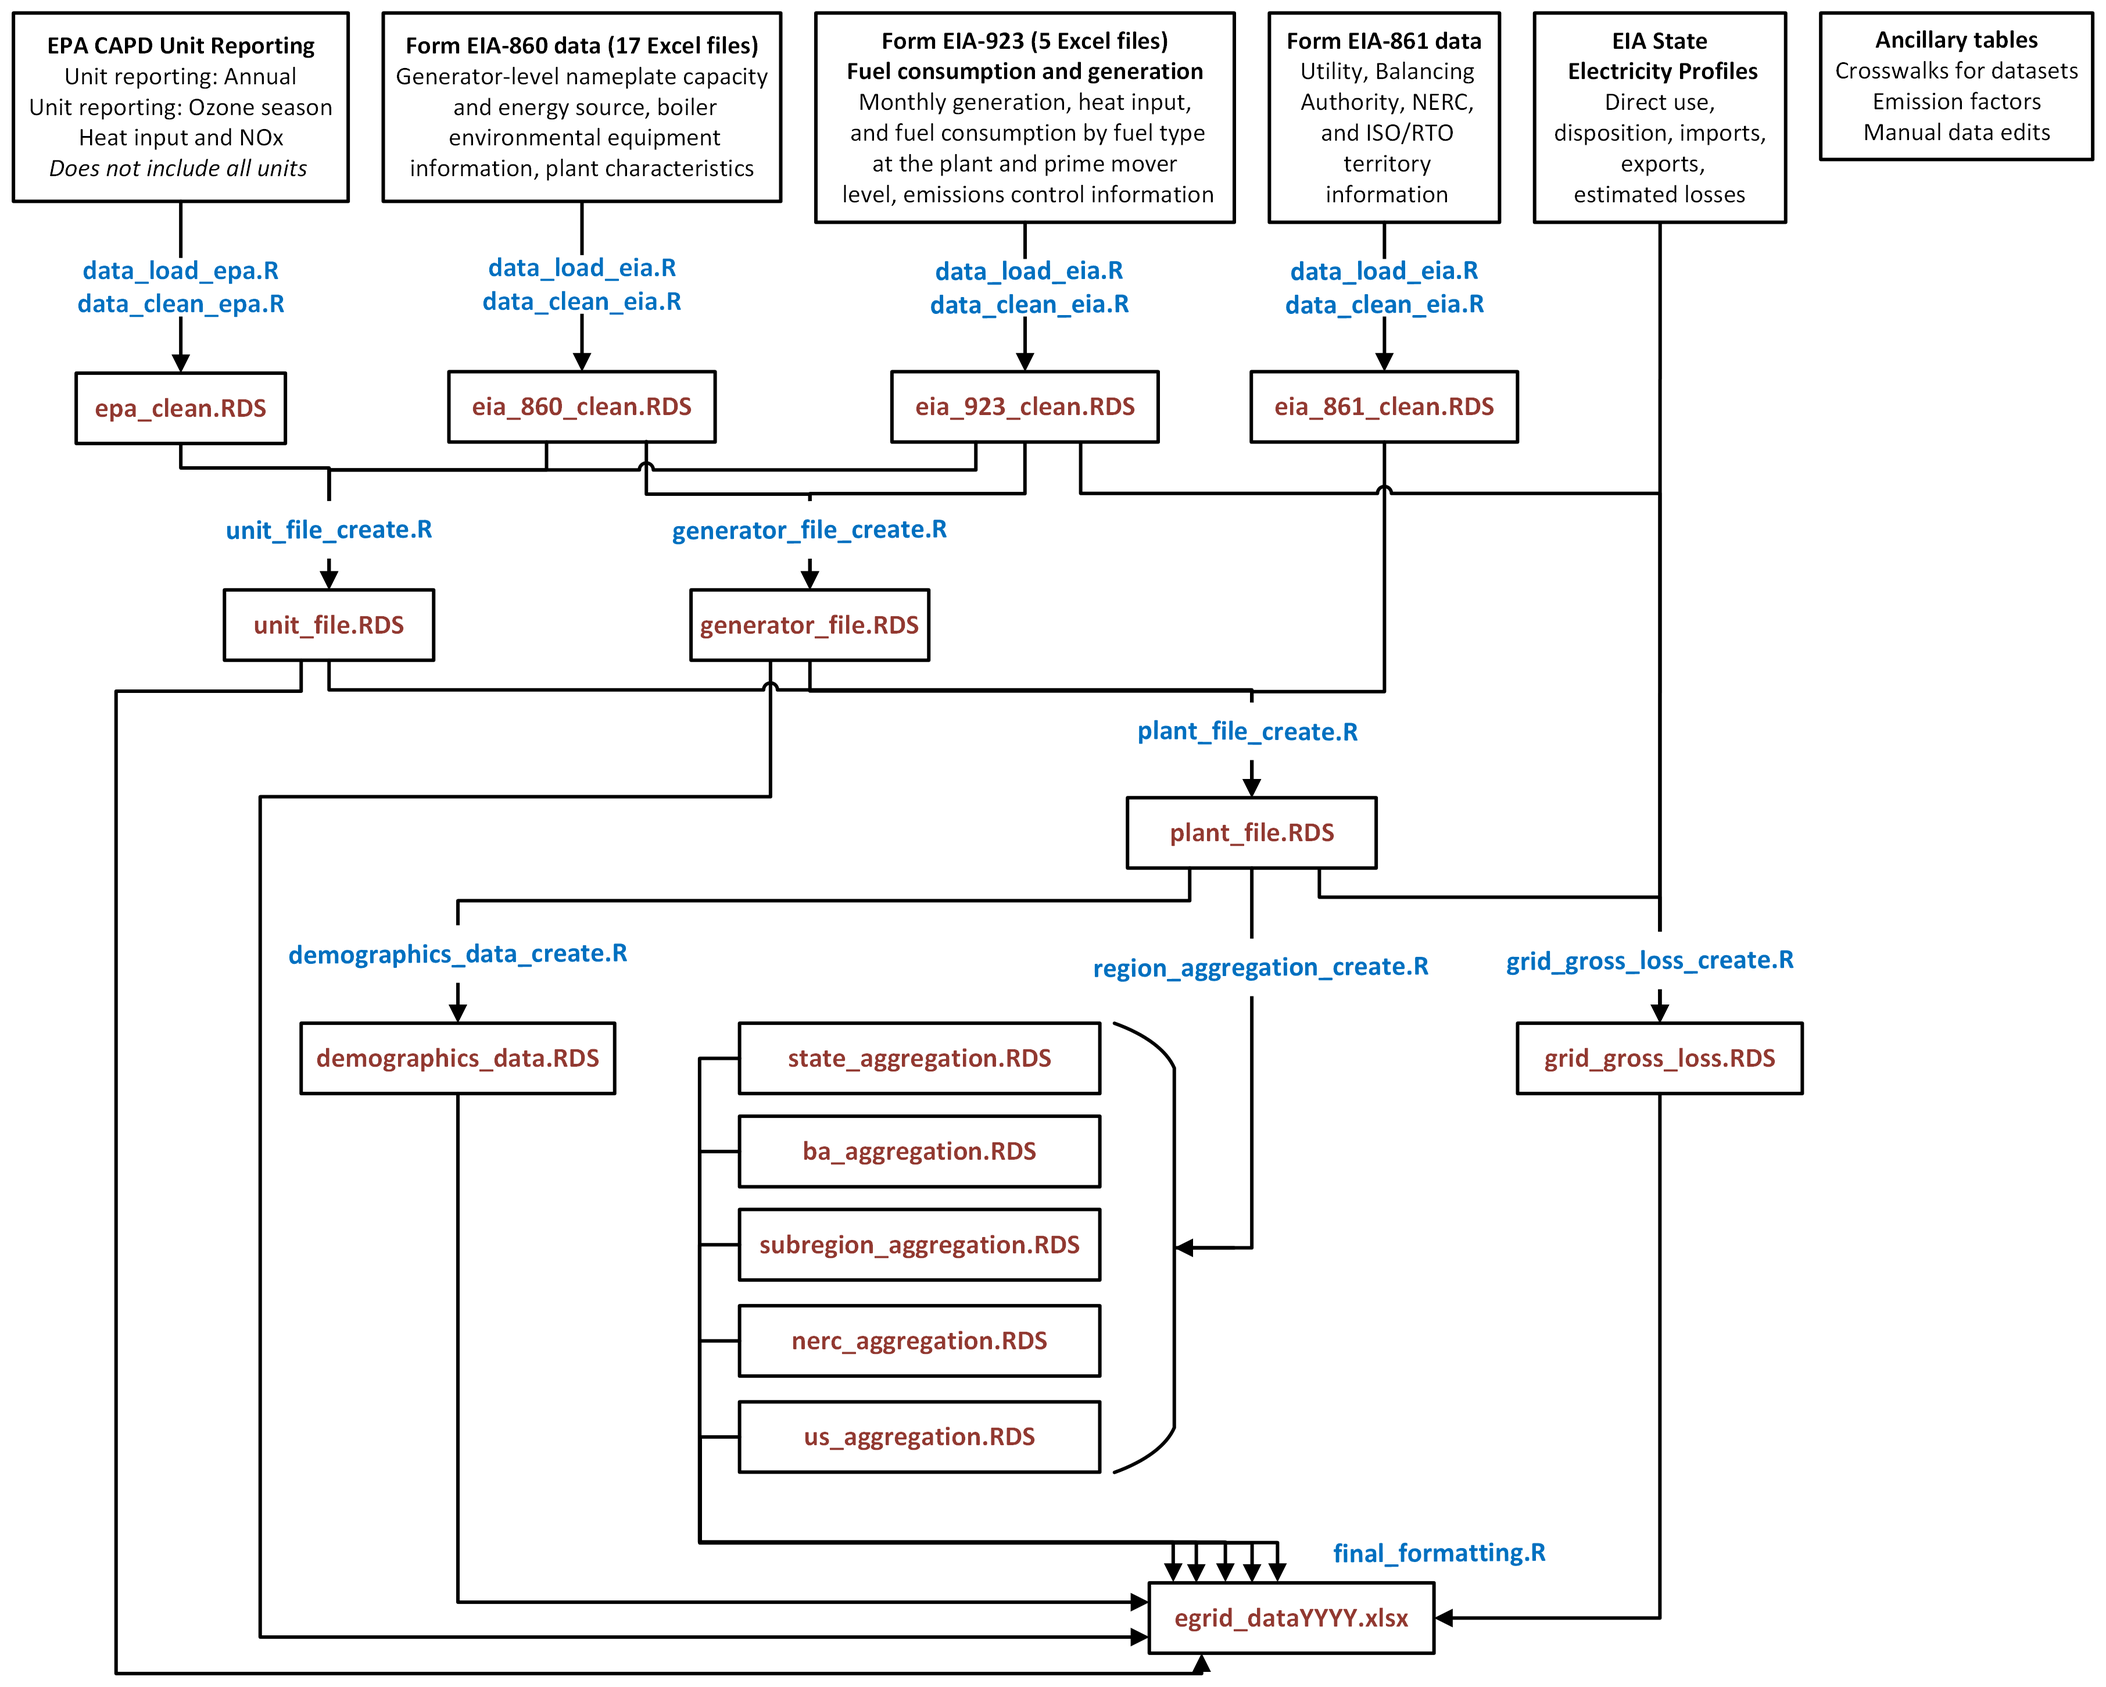
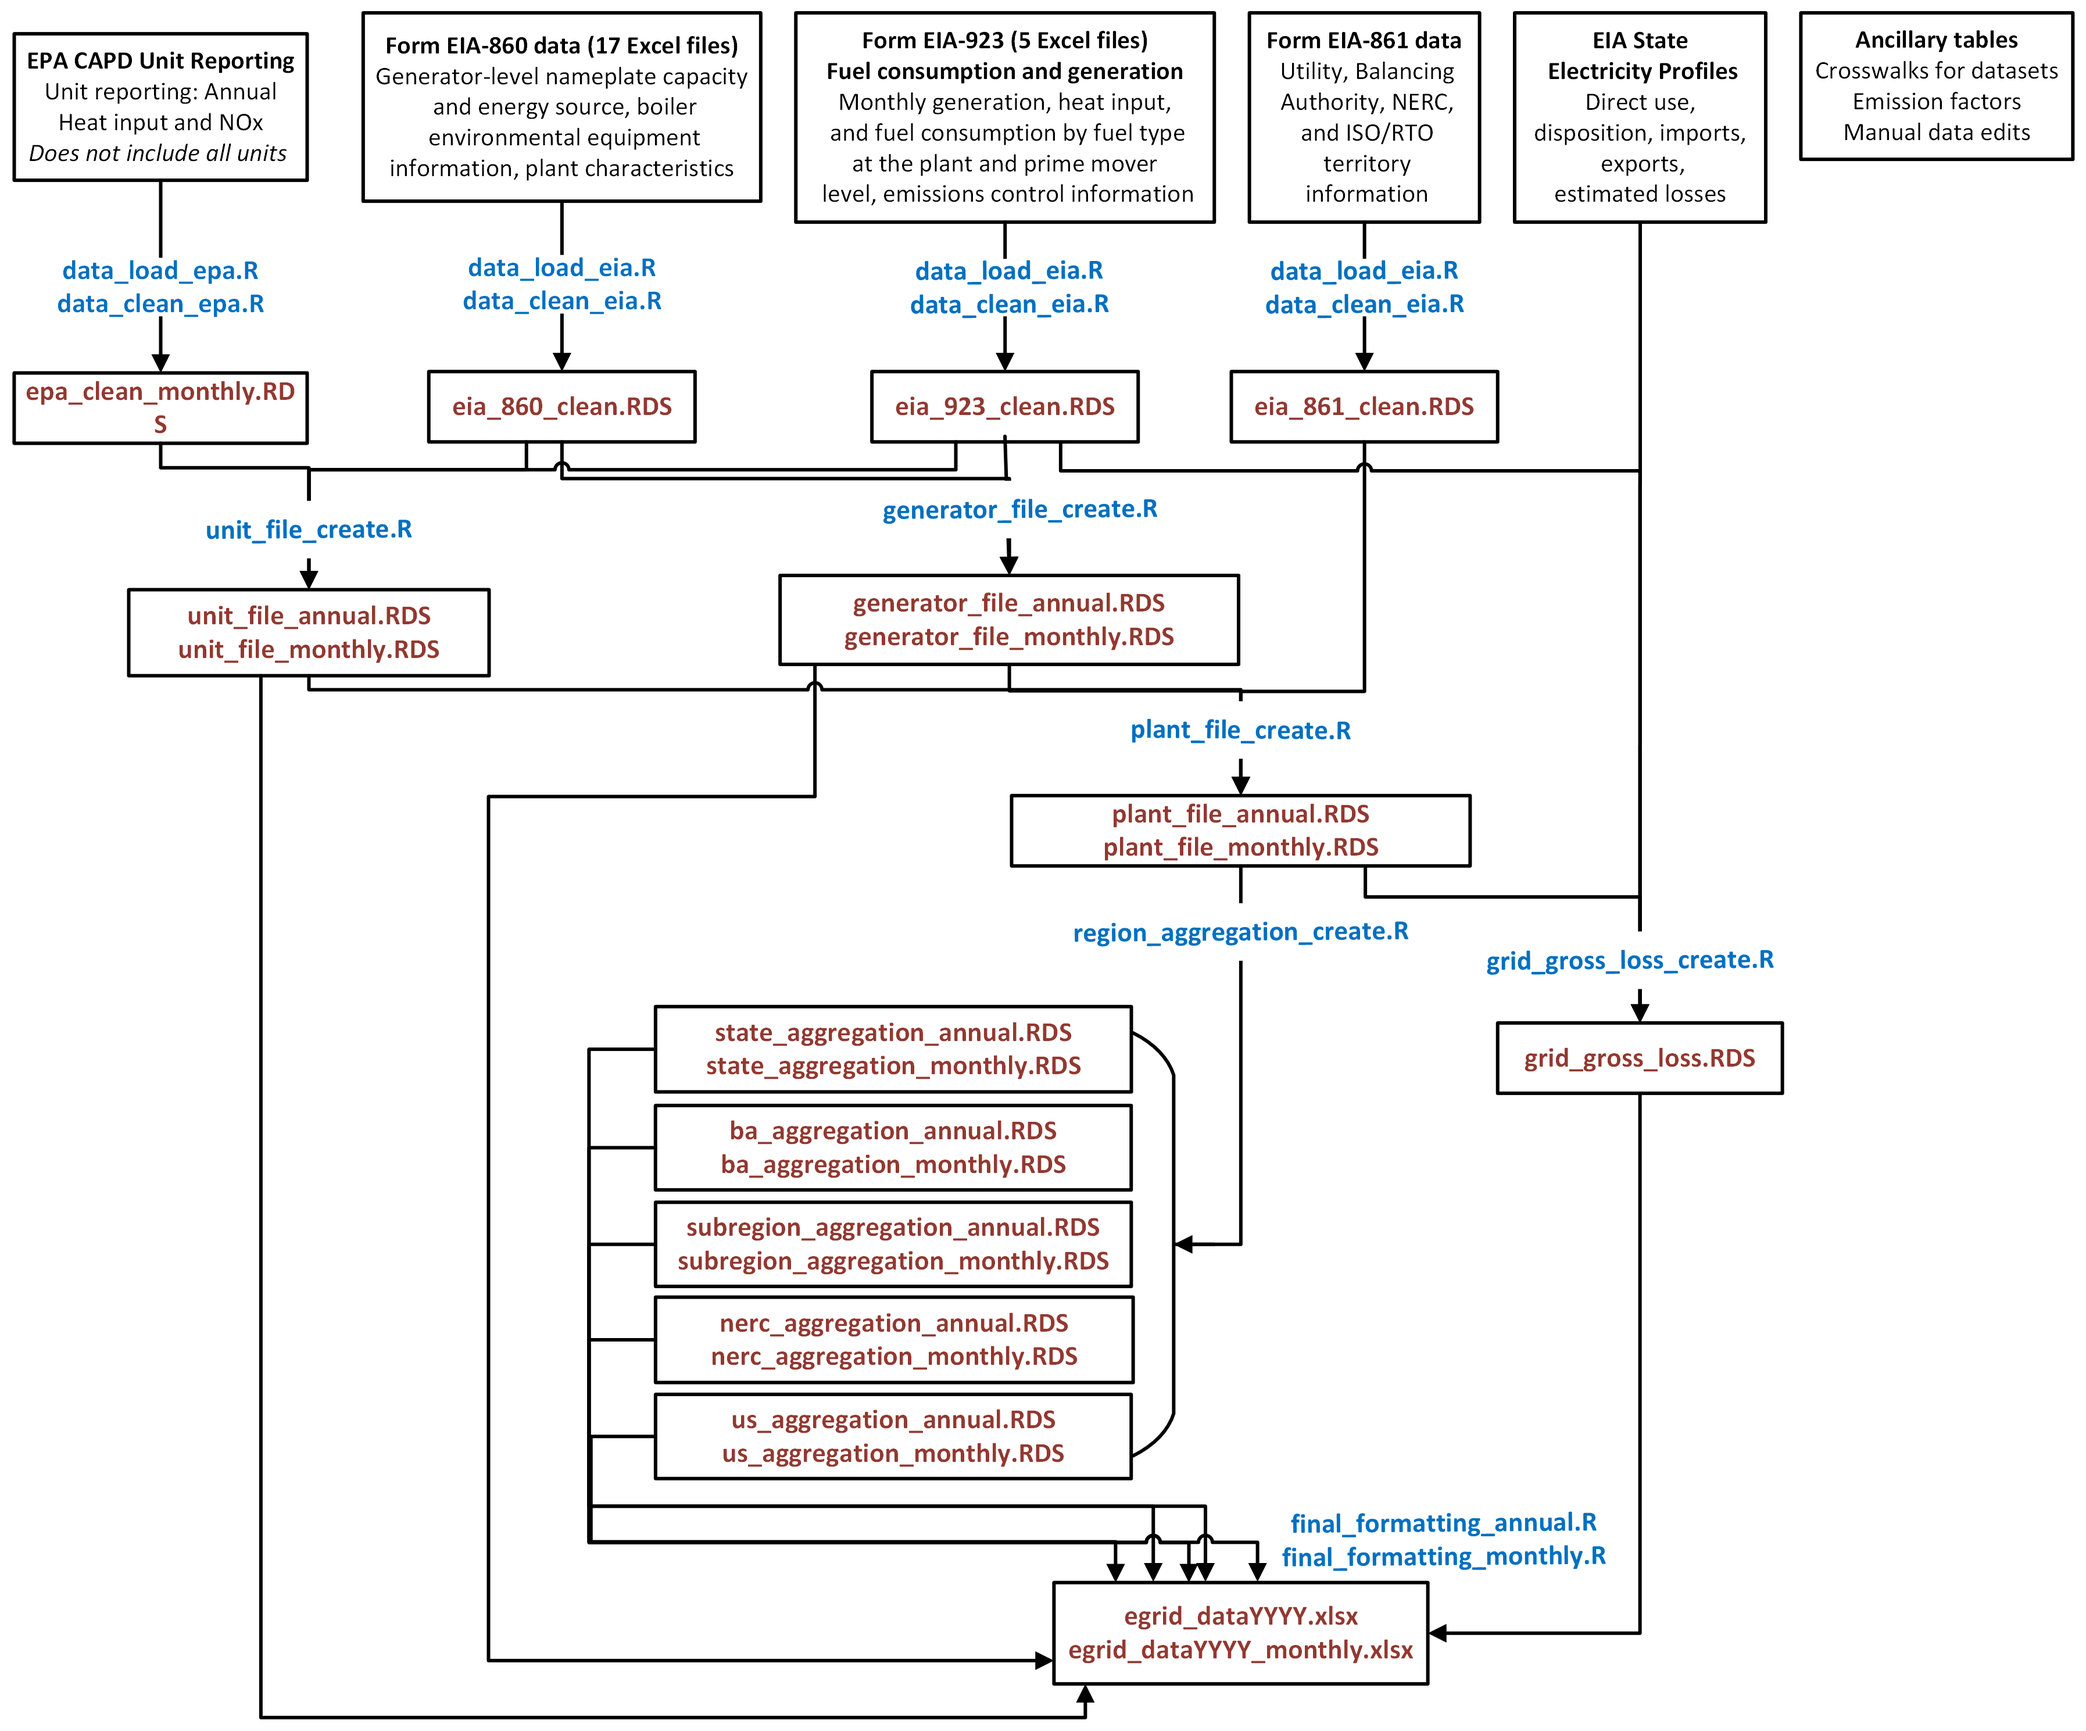
Updating README and eGRID architecture to match monthly version.

diff --git a/README.md b/README.md
@@ -89,7 +89,7 @@ To create the eGRID dataset:
 
 ## Outputs
 
-The codebase outputs each data aggregation level in the eGRID dataset as an .RDS file and the final dataset as an Excel sheet in `data/outputs/{params$eGRID_year}`. Rendering `eGRID_master.qmd` also creates an HTML file that summarizes the data, methods, and output files used and created throughout the code base.
+The codebase outputs each data aggregation level in the eGRID dataset as an .RDS file and the final dataset as an Excel sheet in `data/outputs/{params$eGRID_year}/{params$temporal_res}` for each annual and monthly temporal resolution, depending on what is specified by the user. Rendering `eGRID_master.qmd` also creates an HTML file that summarizes the data, methods, and output files used and created throughout the code base.
 
 ## QA
 
